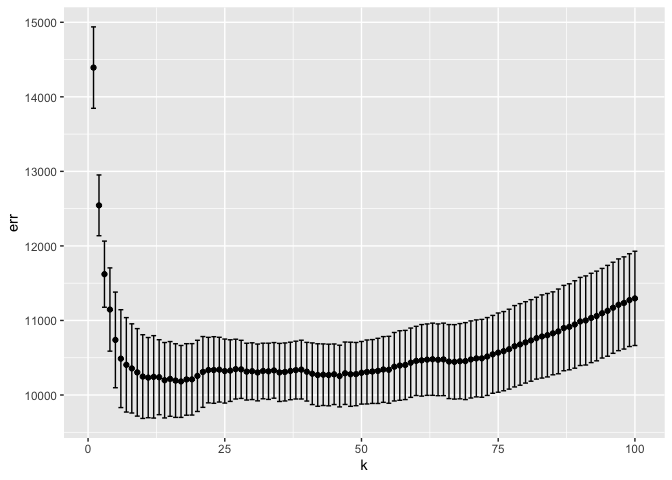
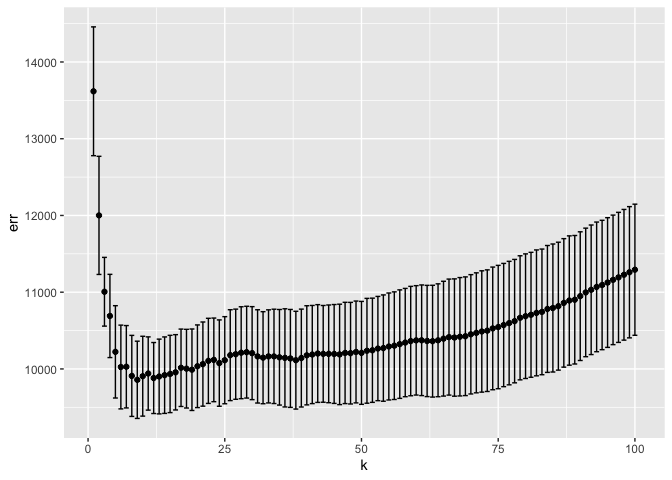
Add files via upload

diff --git a/Assignment-1.md b/Assignment-1.md
@@ -84,9 +84,9 @@ we can get the plot like:
 
 ##3 run k nearest neighbors RMSEs
 
-    ## [1] 10976.61
+    ## [1] 10170.92
 
-    ## [1] 40382.82
+    ## [1] 34273.82
 
     ##    id trim subTrim condition isOneOwner mileage year  color displacement   fuel
     ## 1 282  350    unsp       CPO          f   21929 2012  Black        3.0 L Diesel
@@ -96,12 +96,12 @@ we can get the plot like:
     ## 5 289  350    unsp      Used          t   66689 2012  Black        3.0 L Diesel
     ## 6 290  350    unsp       CPO          f   19567 2012  Black        3.0 L Diesel
     ##   state region   soundSystem wheelType wheelSize featureCount price fold_id
-    ## 1    MA    New          unsp      unsp      unsp           82 55994       3
+    ## 1    MA    New          unsp      unsp      unsp           82 55994       2
     ## 2    IL    ENC       Premium     Alloy      unsp           72 60900       2
     ## 3    VA    SoA          unsp      unsp      unsp            5 54995       2
     ## 4    NH    New Harman Kardon      unsp      unsp           83 59988       2
-    ## 5    NJ    Mid Harman Kardon     Alloy      unsp           79 37995       5
-    ## 6    LA    WSC       Premium     Alloy      unsp           76 59977       5
+    ## 5    NJ    Mid Harman Kardon     Alloy      unsp           79 37995       2
+    ## 6    LA    WSC       Premium     Alloy      unsp           76 59977       1
 
     ##     id   trim subTrim condition isOneOwner mileage year  color displacement
     ## 1 1060 65 AMG    unsp       New          f     106 2015  Black        6.0 L
@@ -118,46 +118,45 @@ we can get the plot like:
     ## 5 Gasoline    OH    ENC        unsp      unsp      unsp           92 102500
     ## 6 Gasoline    CA    Pac        unsp      unsp      unsp            1 230860
     ##   fold_id
-    ## 1       3
-    ## 2       2
-    ## 3       3
-    ## 4       1
-    ## 5       5
-    ## 6       3
+    ## 1       5
+    ## 2       1
+    ## 3       5
+    ## 4       5
+    ## 5       4
+    ## 6       5
 
     ## Warning: executing %dopar% sequentially: no parallel backend registered
 
     ##          k      err  std_err
-    ## result.1 1 14392.17 546.0786
-    ## result.2 2 12544.23 407.6068
-    ## result.3 3 11620.98 443.6365
-    ## result.4 4 11146.66 558.5040
-    ## result.5 5 10739.02 641.4782
-    ## result.6 6 10487.73 656.5116
+    ## result.1 1 13618.15 839.2263
+    ## result.2 2 12001.04 769.7469
+    ## result.3 3 11005.82 447.8463
+    ## result.4 4 10690.35 542.3353
+    ## result.5 5 10222.72 601.5331
+    ## result.6 6 10025.07 545.8134
 
     ##          k      err  std_err
-    ## result.1 1 30891.76 1548.871
-    ## result.2 2 25692.89 1030.810
-    ## result.3 3 22831.29 1818.625
-    ## result.4 4 22049.90 1530.119
-    ## result.5 5 22197.07 1412.166
-    ## result.6 6 21827.18 1173.434
+    ## result.1 1 29456.82 1827.754
+    ## result.2 2 24480.29 1451.698
+    ## result.3 3 23450.30 1210.884
+    ## result.4 4 22154.73 1430.636
+    ## result.5 5 21801.20 1557.566
+    ## result.6 6 21426.74 1812.475
 
-##4 每個trim都畫出RMSE和K的關係，可看出optimal k（line or point）
+##4 the relationship for RMSE and k，can find optimal k（line or point）
 ![](Assignment-1_files/figure-markdown_strict/unnamed-chunk-6-1.png)![](Assignment-1_files/figure-markdown_strict/unnamed-chunk-6-2.png)
 The optimal k for 350 is 15, and the optimal k for 65 AMG is 22
 
-##5 該k值對應的model(for each trim)
+##5 model for each k (for each trim) ##6 Which trim have bigger optimal
+k? why?
 
-##6哪個trim有較大的optimal k? why?
+    ## [1] 13403.48
 
-    ## [1] 10467.84
+![](Assignment-1_files/figure-markdown_strict/unnamed-chunk-7-1.png)
 
-![](Assignment-1_files/figure-markdown_strict/unnamed-chunk-8-1.png)
+    ## [1] 32168.77
 
-    ## [1] 38641.2
-
-![](Assignment-1_files/figure-markdown_strict/unnamed-chunk-8-2.png)
+![](Assignment-1_files/figure-markdown_strict/unnamed-chunk-7-2.png)
 
 65 AMG has a bigger optimal value of k.
 
